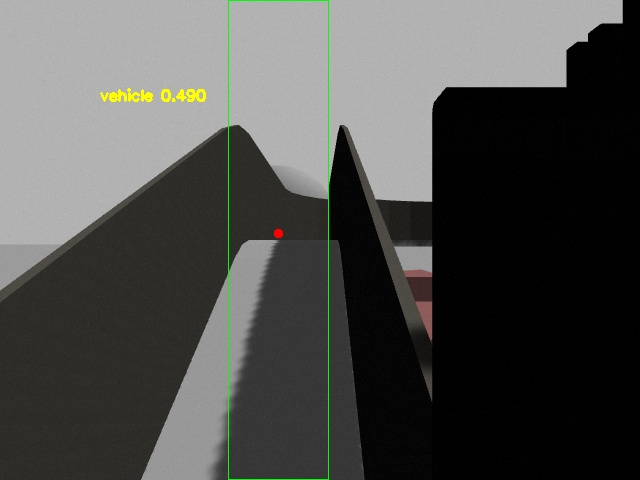
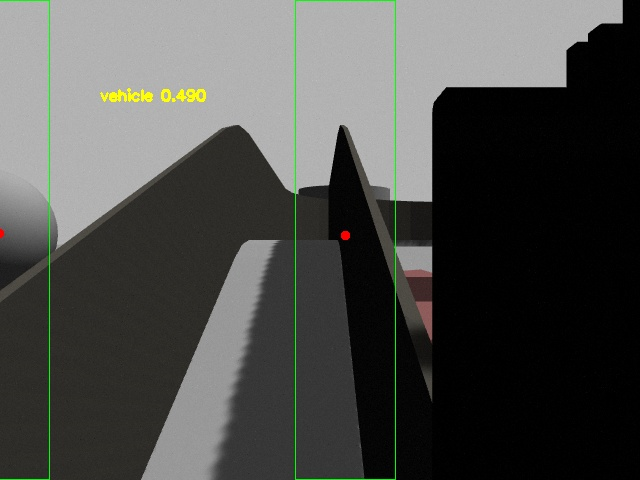
update fusion

diff --git a/ROS_WS/site_ws/src/site_model/src/tools/RadCamFusion/fusion.py b/ROS_WS/site_ws/src/site_model/src/tools/RadCamFusion/fusion.py
@@ -23,10 +23,8 @@ import radar_roi
 
 global counter
 counter = 0
-def fusion(radar, image2):
-    print("image2:")
-    print("image3:")
-    print("radar:")
+def fusion(radar, image2, image3):
+    print("ok")
 
     # radar_roi
     x_pixels_left, y_pixels_left, x_pixels_right, y_pixels_right = radar_roi.radar_roi(config, radar)
@@ -37,15 +35,15 @@ def fusion(radar, image2):
 
     # draw
     # if params.draw_output == True:
-    draw_output(x_pixels_left, y_pixels_left, x_pixels_right, y_pixels_right, image2)
+    # draw_output(x_pixels_left, y_pixels_left, x_pixels_right, y_pixels_right, image2)
 
 def draw_output(x_pixels_left, y_pixels_left, x_pixels_right, y_pixels_right, image2: Image):
     output_dir = config['output']['RadCamFusion_dir']
     os.makedirs(output_dir, exist_ok=True)
     # left
+    img = CvBridge().imgmsg_to_cv2(image2, 'bgr8')
     num_left = len(x_pixels_left)
     for i in range(num_left):
-        img = CvBridge().imgmsg_to_cv2(image2, 'bgr8')
         # draw dot
         pt1 = (x_pixels_left[i]-2, y_pixels_left[i]-2)
         pt2 = (x_pixels_left[i]+2, y_pixels_left[i]+2)
@@ -84,7 +82,7 @@ if __name__ == '__main__':
     sub_image_2 = message_filters.Subscriber('/image_raw_2', Image)
     sub_image_3 = message_filters.Subscriber('/image_raw_3', Image)
  
-    sync = message_filters.TimeSynchronizer([sub_radar, sub_image_2], 10)# syncronize time stamps
+    sync = message_filters.ApproximateTimeSynchronizer([sub_radar, sub_image_2, sub_image_3], 10, 1)# syncronize time stamps
     sync.registerCallback(fusion)
     print("Begin.")
     rospy.spin()

diff --git a/ROS_WS/site_ws/src/site_model/src/tools/RadCamFusion/radar_roi.py b/ROS_WS/site_ws/src/site_model/src/tools/RadCamFusion/radar_roi.py
@@ -30,8 +30,8 @@ def radar_roi(config: dict, radar_msgs: MsgRadar):
         y_pose = radar_msgs.ObjectList_left[i].obj_vcs_posey
         world_pose = [[x_pose],[y_pose],[0.46],[1]] # 0.46 is preset
         pixel_pose = get_pixel_pose(calib,"pole2","camera2",world_pose)
-        print("pixel_pose_left:")
-        print(pixel_pose)
+        # print("pixel_pose_left:")
+        # print(pixel_pose)
 
         # location of detection on the image unit pixel
         x_pixel = round(pixel_pose[0][0])
@@ -48,8 +48,8 @@ def radar_roi(config: dict, radar_msgs: MsgRadar):
         y_pose = radar_msgs.ObjectList_right[i].obj_vcs_posey
         world_pose = [[x_pose],[y_pose],[0.46],[1]]
         pixel_pose = get_pixel_pose(calib,"pole3","camera3",world_pose)
-        print("pixel_pose_right:")
-        print(pixel_pose)
+        # print("pixel_pose_right:")
+        # print(pixel_pose)
 
         # location of detection on the image unit pixel
         x_pixel = round(pixel_pose[0][0])
